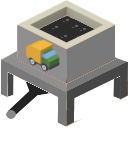
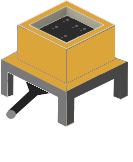
music

diff --git a/src/bgm.c b/src/bgm.c
@@ -11,6 +11,8 @@
 #include <stdio.h>
 #include <stdlib.h>
 
+#include <math.h>
+
 #include <libdragon.h>
 
 #define BGM_CHANNEL 0
@@ -19,6 +21,7 @@
 
 static wav64_t bgm_wav;
 static bool bgm_started = false;
+static bgm_track_t current_track = BGM_TRACK_INTRO_PAUSE;
 
 void bgm_init()
 {
@@ -28,9 +31,25 @@ void bgm_init()
     wav64_init_compression(0);
 }
 
-static void bgm_open_track()
+static const char *bgm_track_path(bgm_track_t track)
 {
-    const char *path = "rom:/sfx/bgms/DamN64_intro_pause_screen_22k.wav64";
+    switch (track)
+    {
+        case BGM_TRACK_JOY:
+            return "rom:/sfx/bgms/DamN64_joy_LITE_22k.wav64";
+        case BGM_TRACK_WEIRD:
+            return "rom:/sfx/bgms/DamN64_weird_LITE_22k.wav64";
+        case BGM_TRACK_WEIRD2:
+            return "rom:/sfx/bgms/DamN64_weird2_LITE_22k.wav64";
+        case BGM_TRACK_INTRO_PAUSE:
+        default:
+            return "rom:/sfx/bgms/DamN64_intro_pause_screen_22k.wav64";
+    }
+}
+
+static void bgm_open_track(bgm_track_t track)
+{
+    const char *path = bgm_track_path(track);
 
     mixer_ch_stop(BGM_CHANNEL);
     wav64_close(&bgm_wav);
@@ -46,7 +65,7 @@ void bgm_pause()
     if (!bgm_started)
         return;
 
-    mixer_ch_set_vol(BGM_CHANNEL, PAUSE_VOLUME, PAUSE_VOLUME);
+    bgm_set_volume(PAUSE_VOLUME);
 }
 
 void bgm_play()
@@ -54,7 +73,7 @@ void bgm_play()
     if (!bgm_started)
         return;
 
-    mixer_ch_set_vol(BGM_CHANNEL, GAME_VOLUME, GAME_VOLUME);
+    bgm_set_volume(GAME_VOLUME);
 }
 
 void bgm_mute()
@@ -62,7 +81,38 @@ void bgm_mute()
     if (!bgm_started)
         return;
 
-    mixer_ch_set_vol(BGM_CHANNEL, 0.0f, 0.0f);
+    bgm_set_volume(0.0f);
+}
+
+void bgm_set_track(bgm_track_t track)
+{
+    if (current_track == track && bgm_started)
+        return;
+
+    current_track = track;
+
+    if (!bgm_started)
+        return;
+
+    float pos = 0.0f;
+    if (mixer_ch_playing(BGM_CHANNEL))
+        pos = mixer_ch_get_pos(BGM_CHANNEL);
+
+    bgm_open_track(track);
+
+    int len = bgm_wav.wave.len;
+    if (len > 0 && len != WAVEFORM_UNKNOWN_LEN && pos >= len)
+    {
+        pos = fmodf(pos, (float)len);
+    }
+
+    if (pos > 0.0f)
+        mixer_ch_set_pos(BGM_CHANNEL, pos);
+}
+
+void bgm_set_volume(float volume)
+{
+    mixer_ch_set_vol(BGM_CHANNEL, volume, volume);
 }
 
 void bgm_start()
@@ -70,7 +120,7 @@ void bgm_start()
     if (bgm_started)
         return;
 
-    bgm_open_track();
+    bgm_open_track(current_track);
     bgm_started = true;
 }
 

diff --git a/src/pause.c b/src/pause.c
@@ -92,6 +92,30 @@ void pause_handle_input(control_t *keys[2])
     if (p1->start)
     {
         toggle_pause();
+        if (pause_active)
+        {
+            if (music_on)
+            {
+                bgm_set_track(BGM_TRACK_INTRO_PAUSE);
+                bgm_pause();
+            }
+            else
+            {
+                bgm_mute();
+            }
+        }
+        else
+        {
+            if (music_on)
+            {
+                bgm_set_track(BGM_TRACK_JOY);
+                bgm_play();
+            }
+            else
+            {
+                bgm_mute();
+            }
+        }
         prev_direction = p1->direction;
         return;
     }
@@ -121,9 +145,14 @@ void pause_handle_input(control_t *keys[2])
         {
             music_on = !music_on;
             if (music_on)
-                bgm_play();
+            {
+                bgm_set_track(BGM_TRACK_INTRO_PAUSE);
+                bgm_pause();
+            }
             else
+            {
                 bgm_mute();
+            }
         }
         else if (selected_row == PAUSE_ROW_RUMBLE)
         {

diff --git a/src/game.c b/src/game.c
@@ -14,6 +14,7 @@
 #include "character.h"
 #include "dam.h"
 #include "pause.h"
+#include "bgm.h"
 #include "fps.h"
 #include "font.h"
 // Logical diamond footprint in screen space (not necessarily sprite size)
@@ -120,6 +121,7 @@ static int rumble_ticks[2] = {0, 0};
 
 static bool world_to_grid(int world_x, int world_y, int *grid_x, int *grid_y);
 static void update_plant_tiles(void);
+static void update_music_track(void);
 
 /**
  * @brief update_truck_full: Set full state when driving below beton.
@@ -203,6 +205,28 @@ static void update_plant_tiles(void)
     {
         game_map.tiles[plant_r_y][plant_r_x] = plant_ready_r ? TILE_BETON_RED : TILE_BETON;
     }
+}
+
+/**
+ * @brief update_music_track: Switch game music based on dam state.
+ */
+static void update_music_track(void)
+{
+    if (!pause_get_music_on())
+    {
+        bgm_mute();
+        return;
+    }
+
+    int broken = dam_get_broken_sections();
+    if (broken >= 2)
+        bgm_set_track(BGM_TRACK_WEIRD2);
+    else if (broken >= 1)
+        bgm_set_track(BGM_TRACK_WEIRD);
+    else
+        bgm_set_track(BGM_TRACK_JOY);
+
+    bgm_play();
 }
 
 /**
@@ -580,6 +604,7 @@ void game_update(control_t *keys[2])
         debug_enabled = !debug_enabled;
 
     dam_update();
+    update_music_track();
     character_update(player_keys, is_blocked_position);
     update_truck_full();
     if (keys[0] && keys[0]->rumble && pause_get_rumble_on())

diff --git a/src/screens.c b/src/screens.c
@@ -109,6 +109,16 @@ void screen_title(display_context_t disp)
     int title_y = screen_h / 4;
     int prompt_y = title_y + (screen_h * 13) / 24;
 
+    if (pause_get_music_on())
+    {
+        bgm_set_track(BGM_TRACK_INTRO_PAUSE);
+        bgm_play();
+    }
+    else
+    {
+        bgm_mute();
+    }
+
     title_update(screen_w);
 
     rdpq_attach(disp, NULL);
@@ -136,6 +146,16 @@ void screen_story(display_context_t disp, control_t *keys[2])
     int screen_w = display_get_width();
 
     (void)keys;
+
+    if (pause_get_music_on())
+    {
+        bgm_set_track(BGM_TRACK_JOY);
+        bgm_play();
+    }
+    else
+    {
+        bgm_mute();
+    }
 
     sprite_t *beton_tile = sprite_load("rom:/gfx/sprites/isometric-city/cityTiles_beton.sprite");
     sprite_t *broken_wall_tile = sprite_load("rom:/gfx/sprites/isometric-city/cityTiles_broken_wall.sprite");

diff --git a/include/bgm.h b/include/bgm.h
@@ -9,10 +9,20 @@
 #ifndef __BGM_H__
 #define __BGM_H__
 
+typedef enum
+{
+    BGM_TRACK_INTRO_PAUSE = 0,
+    BGM_TRACK_JOY = 1,
+    BGM_TRACK_WEIRD = 2,
+    BGM_TRACK_WEIRD2 = 3
+} bgm_track_t;
+
 void bgm_init();
 void bgm_pause();
 void bgm_play();
 void bgm_mute();
+void bgm_set_track(bgm_track_t track);
+void bgm_set_volume(float volume);
 void bgm_start();
 void bgm_stop();
 void bgm_update();

diff --git a/TODO.md b/TODO.md
@@ -1,10 +1,9 @@
 # TODO
 
 - Add music per level and music to story 
-- Add warning 2 players / rumble screen
+- Add warning 2 players
 - Rework collisions
 - Make is to we can fix the wall
-- Add pause menu
 - Better map
 - Add game end when breach is max
 - Verify build and ROM on real hardware